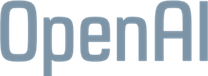
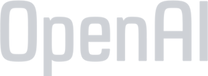
color overlay for openai on homepage

diff --git a/source/stylesheets/scss/components/_customers.scss b/source/stylesheets/scss/components/_customers.scss
@@ -32,7 +32,7 @@
       @include img-retina( '../images/v2/customers/customer-a-yc', png, 145px, 29px);
     }
     &.openai-a{
-      @include img-retina( '../images/v2/customers/customer-openai', png, 104px, 29px);
+      @include img-retina( '../images/v2/customers/customer-a-openai', png, 104px, 29px);
     }
     &.condenast-a{
       @include img-retina( '../images/v2/customers/customer-a-condenast', png, 144px, 22px);
